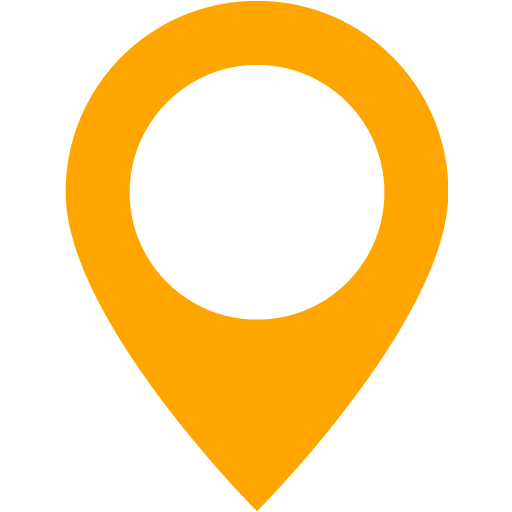
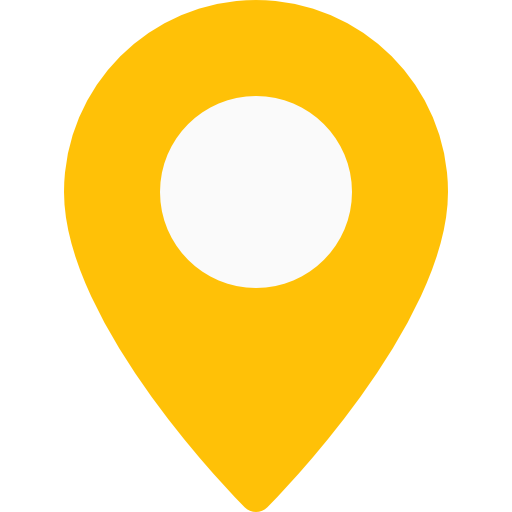
ahora funciona el codigo de qr y detecta el locker

diff --git a/screens/Home.js b/screens/Home.js
@@ -6,8 +6,10 @@ import { FontAwesome } from '@expo/vector-icons';
 import { BarCodeScanner } from 'expo-barcode-scanner';
 import MapView, { Marker } from 'react-native-maps';
 import { auth, db } from '../credenciales';
-import { collection, getDocs } from 'firebase/firestore';
+import { collection, getDocs, doc, getDoc} from 'firebase/firestore';
 import { SafeAreaView } from 'react-native';
+import markerImg from '../assets/marker.png';
+import { Image } from 'react-native';
 
 const Tab = createBottomTabNavigator();
 const Drawer = createDrawerNavigator();
@@ -64,24 +66,42 @@ function QRScannerScreen() {
     })();
   }, []);
 
-  const handleBarCodeScanned = ({ type, data }) => {
-    setScanned(true);
-    alert(`Código QR escaneado: ${data}`);
-  };
+  const handleBarCodeScanned = async ({ type, data }) => {
+  setScanned(true);
 
-  if (Platform.OS === 'android' && !BarCodeScanner.scanFromURLAsync) {
-    return (
-      <View style={[
-        styles.homeContainer,
-        { backgroundColor: colorScheme === 'dark' ? '#2d2233' : '#fff' }
-      ]}>
-        <Text style={{ color: 'red', padding: 20, textAlign: 'center' }}>
-          El escáner QR no está disponible en Expo Go con la nueva arquitectura.
-          Por favor usa `npx expo run:android` para probar esta funcionalidad.
-        </Text>
-      </View>
-    );
+  let info;
+  try {
+    info = JSON.parse(data);
+  } catch (e) {
+    alert('QR inválido');
+    return;
   }
+
+  if (!info.ubicacionId || !info.lockerId) {
+    alert('QR sin datos de locker');
+    return;
+  }
+
+  // Agrega este log para depurar
+  console.log('Buscando locker en:', info.ubicacionId, info.lockerId);
+
+  try {
+    const lockerDoc = await getDoc(
+      doc(db, 'Ubicacion', info.ubicacionId, 'lockers', info.lockerId)
+    );
+    if (lockerDoc.exists()) {
+      const locker = lockerDoc.data();
+      alert(
+        `Locker: ${info.lockerId}\nEstado: ${locker.estado}\n¿Deseas ocuparlo?`
+      );
+    } else {
+      alert('Locker no encontrado');
+    }
+  } catch (e) {
+    console.log('Error Firestore:', e);
+    alert('Error buscando locker');
+  }
+};
 
   if (hasPermission === null) {
     return <Text>Solicitando permiso para usar la cámara...</Text>;
@@ -242,27 +262,33 @@ function MapScreen({ navigation }) {
       >
         {/* Marcador fijo de prueba */}
         <Marker
-          coordinate={{ latitude: -36.795048, longitude: -73.062398 }}
-          onPress={handleFixedMarkerPress}
-        >
-          <FontAwesome name="map-marker" size={44} color={colorScheme === 'dark' ? "#FFA500" : "#FFA500"} />
-        </Marker>
-        {/* Marcadores de Firestore */}
-        {markers.map((ubicacion, index) => (
-          <Marker
-            key={ubicacion.id || index}
-            coordinate={{
-              latitude: ubicacion.latitud,
-              longitude: ubicacion.longitud,
-            }}
-            onPress={() => handleMarkerPress(index)}
-            tracksViewChanges={false}
-          >
-            <Animated.View style={{ transform: [{ scale: selectedMarker === index ? scaleAnim : 1 }] }}>
-              <FontAwesome name="map-marker" size={44} color={colorScheme === 'dark' ? "#FFA500" : "#FFA500"} />
-            </Animated.View>
-          </Marker>
-        ))}
+  coordinate={{ latitude: -36.795048, longitude: -73.062398 }}
+  onPress={handleFixedMarkerPress}
+  anchor={{ x: 0.5, y: 1 }} // <-- Agrega esto
+>
+  <Image
+    source={markerImg}
+    style={{ width: 40, height: 40, resizeMode: 'contain' }}
+  />
+</Marker>
+
+{markers.map((ubicacion, index) => (
+  <Marker
+    key={ubicacion.id || index}
+    coordinate={{
+      latitude: ubicacion.latitud,
+      longitude: ubicacion.longitud,
+    }}
+    onPress={() => handleMarkerPress(index)}
+    tracksViewChanges={false}
+    anchor={{ x: 0.5, y: 1 }} // <-- Agrega esto
+  >
+    <Image
+      source={markerImg}
+      style={{ width: 40, height: 40, resizeMode: 'contain' }}
+    />
+  </Marker>
+))}
       </MapView>
 
       {/* Botón flotante para escanear QR */}
